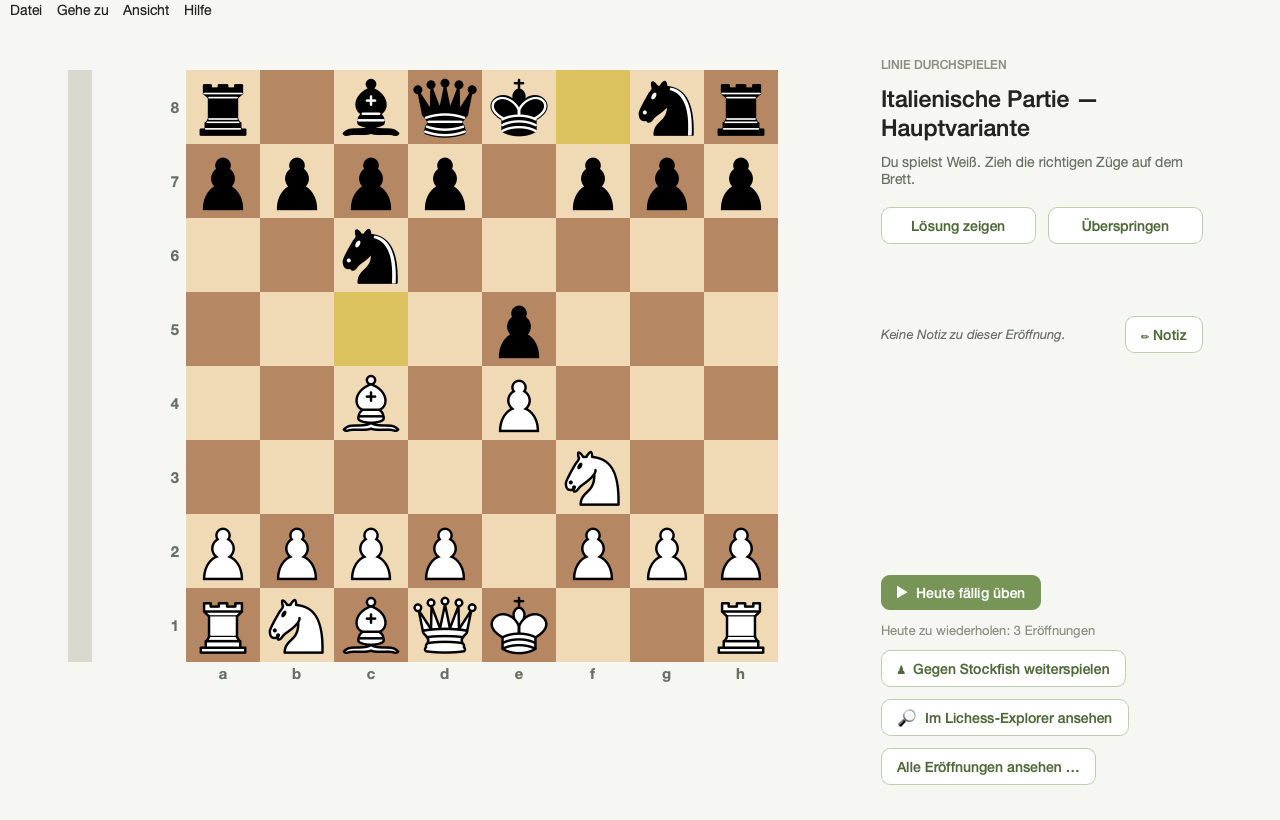
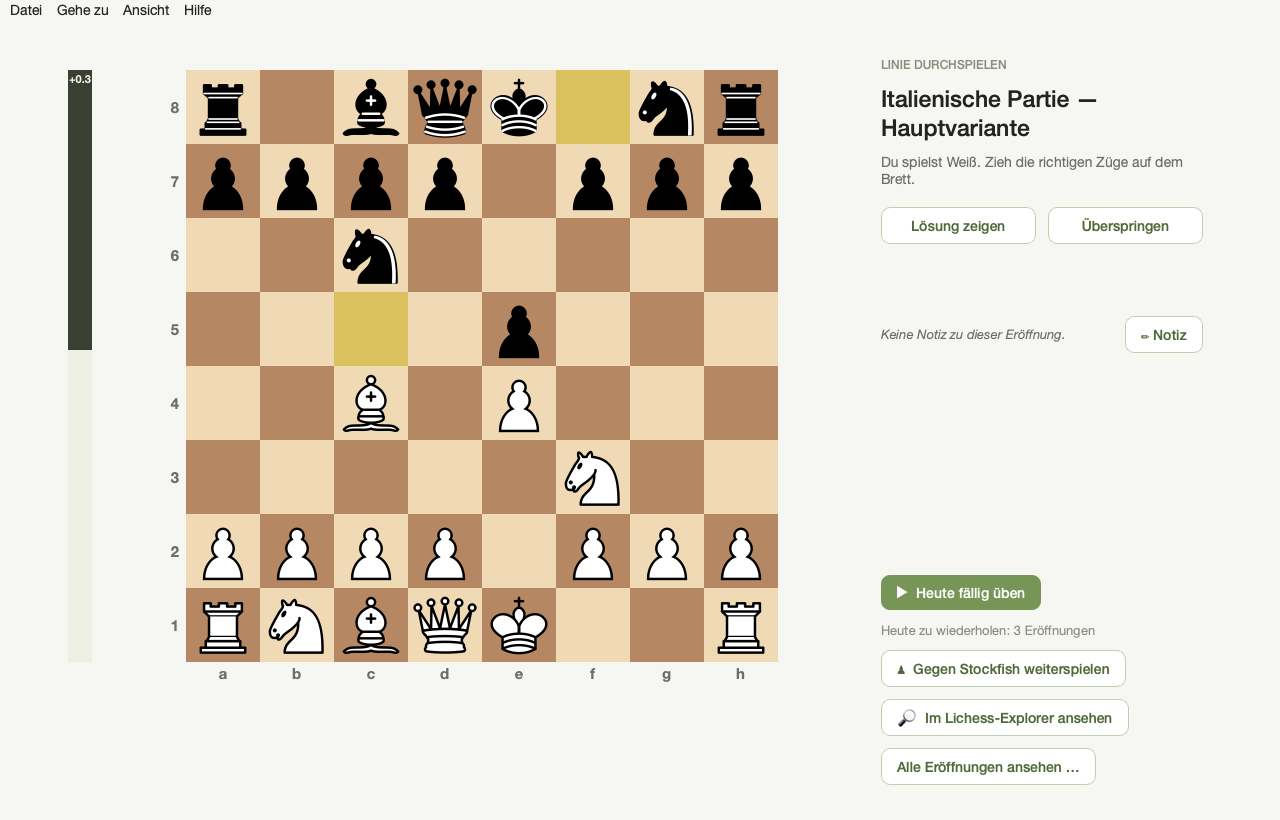
Docs: screenshots now show the evaluation bar; note the bilingual UI
Re-render the hero shots with the Stockfish evaluation bar filled (it was an empty
grey strip before). Add a caption under each screenshot noting the interface is
available in English and German, linking to the other-language screenshot.

Changed region(s): [[0.0312, 0.0915, 0.0938, 0.4268]]

diff --git a/README.de.md b/README.de.md
@@ -13,7 +13,9 @@ lass dein Material *und* deine gespielten Partien von **Stockfish** prüfen.
 > eigenständig, ohne weitere Installation. Die Oberfläche gibt es auf
 > **Deutsch und Englisch**.
 
-![Screenshot](docs/screenshot.de.png)
+![Screenshot — Opening Trainer auf Deutsch, mit der Stockfish-Bewertungsleiste](docs/screenshot.de.png)
+
+*Oberfläche auf **Deutsch und Englisch** (Ansicht → Sprache). Hier auf Deutsch — das [gleiche Fenster auf Englisch](docs/screenshot.en.png).*
 
 **Der erste Start in 13 Sekunden** — ein Klick auf die Beispiel-Eröffnungen, und das Training läuft:
 

diff --git a/README.md b/README.md
@@ -12,7 +12,9 @@ wrong, and have **Stockfish** check your lines and your played games.
 > Modern Qt/PySide6 interface. Stockfish is bundled — the app runs on its own,
 > no extra installation. The interface is available in **English and German**.
 
-![Screenshot](docs/screenshot.en.png)
+![Screenshot — Opening Trainer in English, with the Stockfish evaluation bar](docs/screenshot.en.png)
+
+*Interface in **English and German** (View → Language). Here in English — the [same window in German](docs/screenshot.de.png).*
 
 **First start in 13 seconds** — one click on the sample openings and you’re training:
 